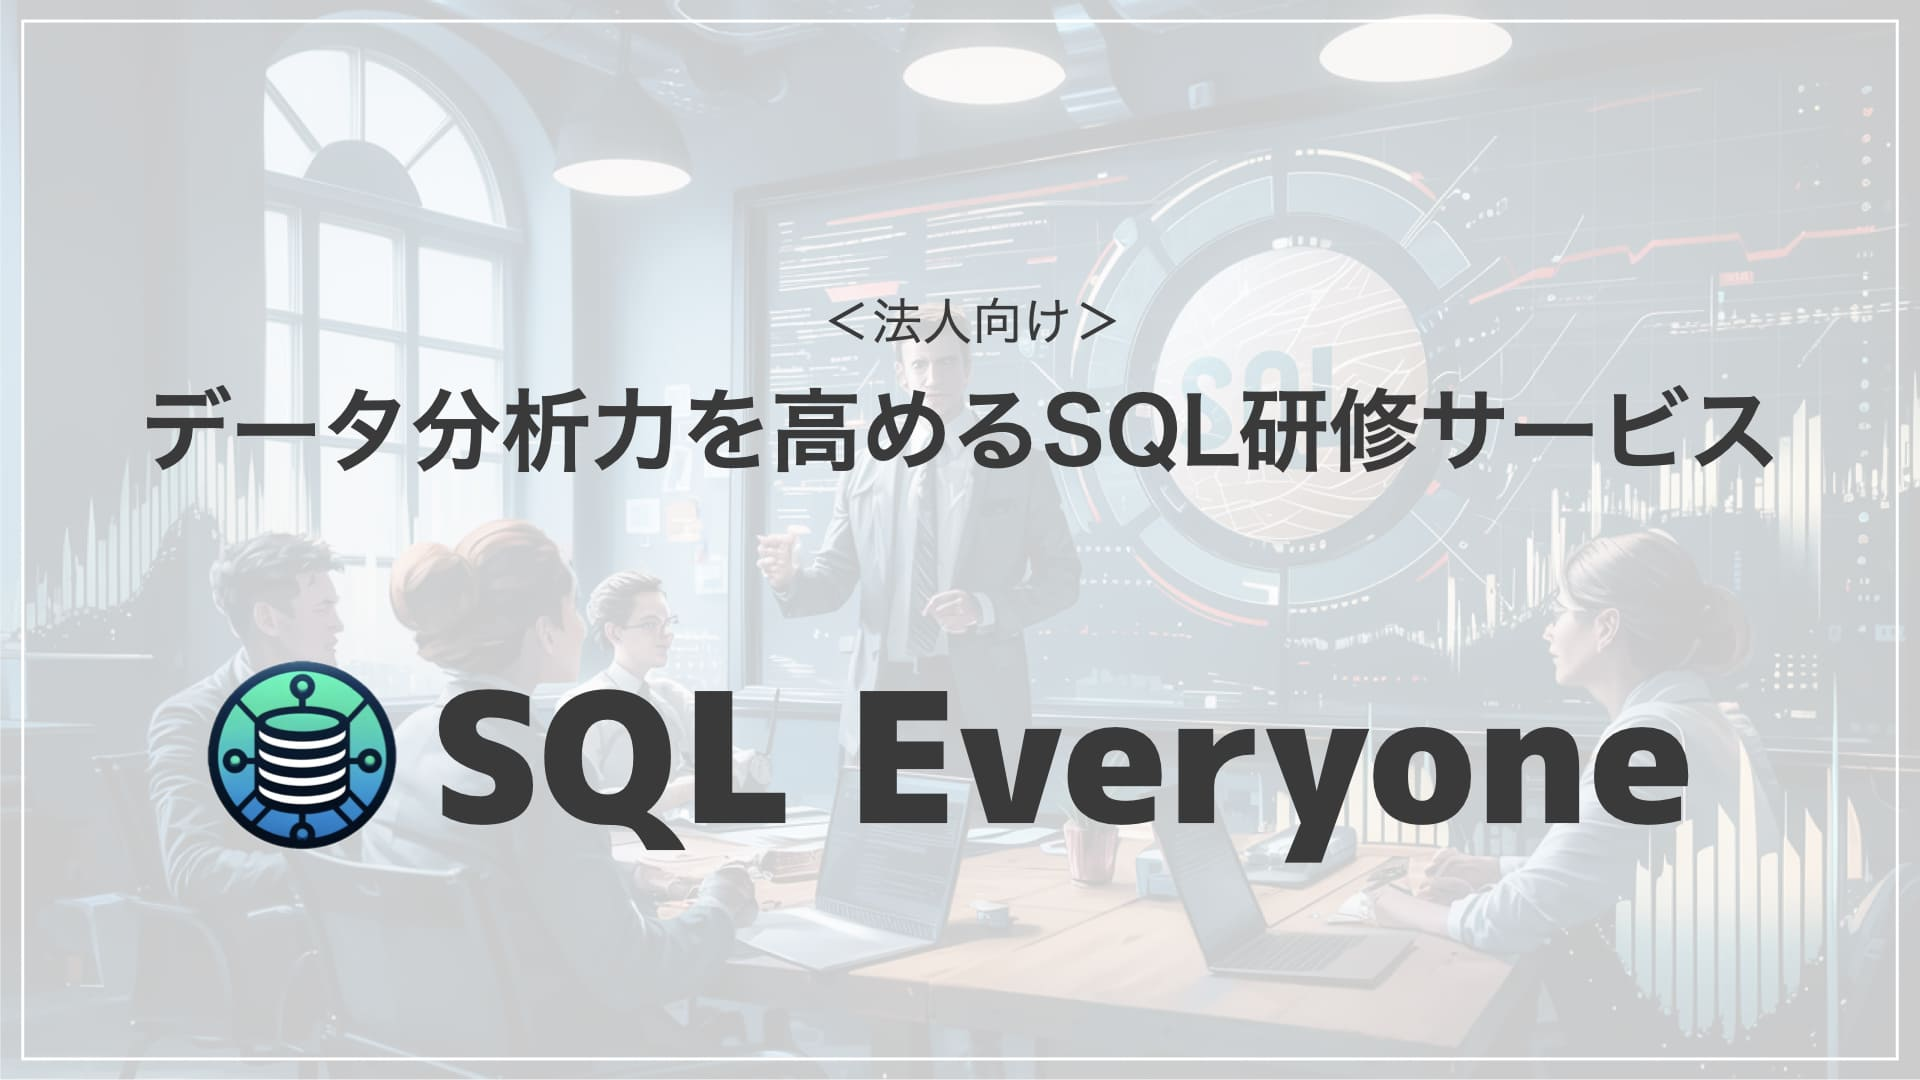
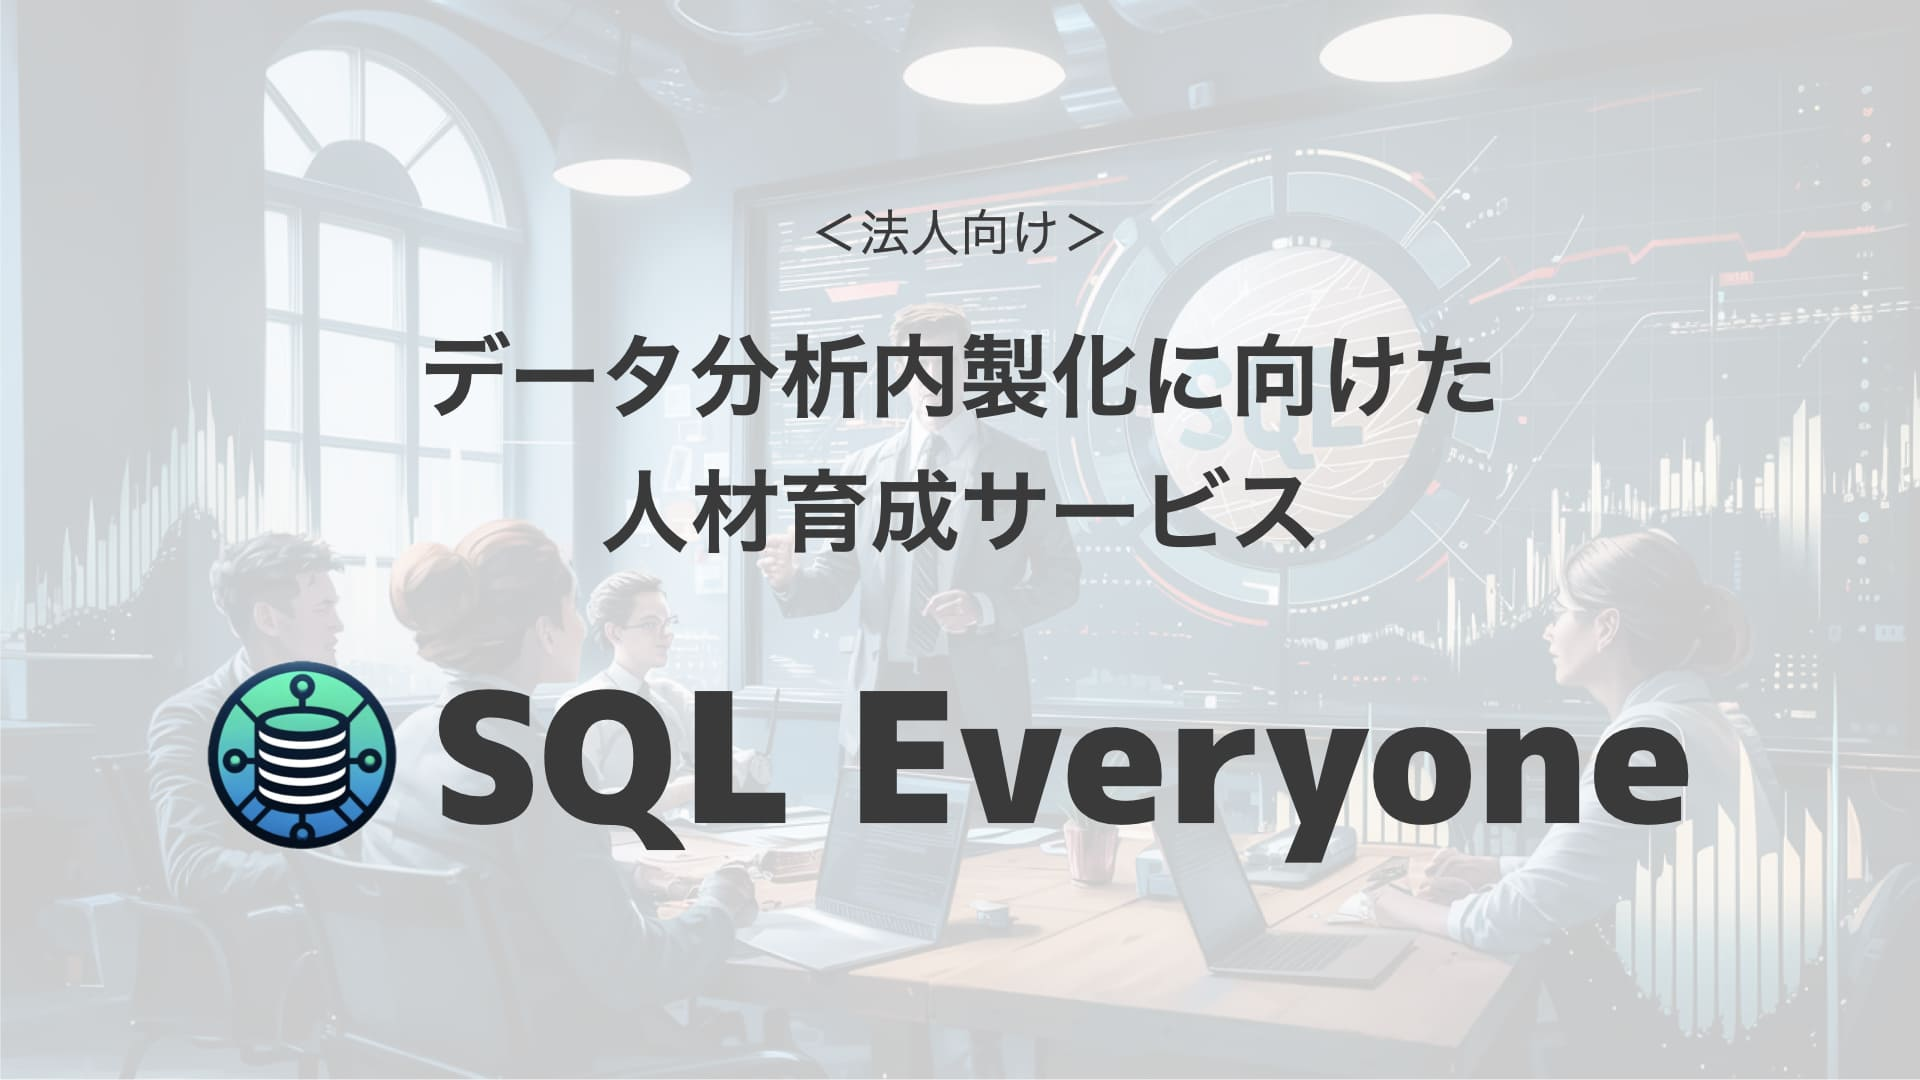
[update] UI

Changed region(s): [[0.0625, 0.275, 0.9375, 0.5194], [0.0312, 0.9778, 0.9688, 1.0], [0.4375, 0.1833, 0.5625, 0.2444]]

diff --git a/components/top/Hero.vue b/components/top/Hero.vue
@@ -37,15 +37,18 @@
 
       <div>
         <img class="rounded-xl w-16 h-16 mx-auto mt-3" :src="sqlIconImage" alt="Features Image" />
+        <!-- <img class="rounded-xl w-16 h-16 mx-auto mt-3 relative z-10" :src="sqlIconImage" alt="Features Image" /> -->
       </div>
 
-      <div class="mt-5 max-w-3xl text-center mx-auto relative z-10">
+      <!-- <div class="mt-5 max-w-3xl text-center mx-auto relative z-10"> -->
+      <div class="mt-5 max-w-3xl text-center mx-auto">
         <p class="text-lg text-gray-600 dark:text-neutral-400">
           『全ての人にデータ分析力』をというミッションのもと、データ分析で使うためのSQLを学習することでデータ分析の内製化を支援します。
         </p>
       </div>
 
       <!-- Buttons -->
+      <!-- <div class="mt-8 gap-3 flex justify-center relative z-10"> -->
       <div class="mt-8 gap-3 flex justify-center">
         <a
           class="w-64 inline-flex justify-center items-center gap-x-3 text-center bg-gradient-to-tl from-blue-600 to-violet-600 hover:from-violet-600 hover:to-blue-600 focus:outline-none focus:ring-2 focus:ring-offset-2 focus:ring-violet-500 border border-transparent text-white text-lg font-bold rounded-full py-3 px-4"

diff --git a/components/common/Header.vue b/components/common/Header.vue
@@ -1,6 +1,6 @@
 <template>
     <!-- ========== HEADER ========== -->
-    <header class="flex flex-wrap md:justify-start md:flex-nowrap z-50 w-full py-7">
+    <header class="flex flex-wrap md:justify-start md:flex-nowrap z-50 w-full py-2 md:py-6">
     <nav class="relative max-w-7xl w-full flex flex-wrap md:grid md:grid-cols-12 basis-full items-center px-4 md:px-6 md:px-8 mx-auto">
         <div class="md:col-span-3">
         <!-- Logo -->

diff --git a/tailwind.config.js b/tailwind.config.js
@@ -15,6 +15,9 @@ module.exports = {
         // フォントを変える場合は修正（リンクも修正）
         custom: ['Noto Sans JP', 'sans-serif'],
       },
+      colors: {
+        'custom-blue': '#2988D5',
+      },
     },
   },
   plugins: [
